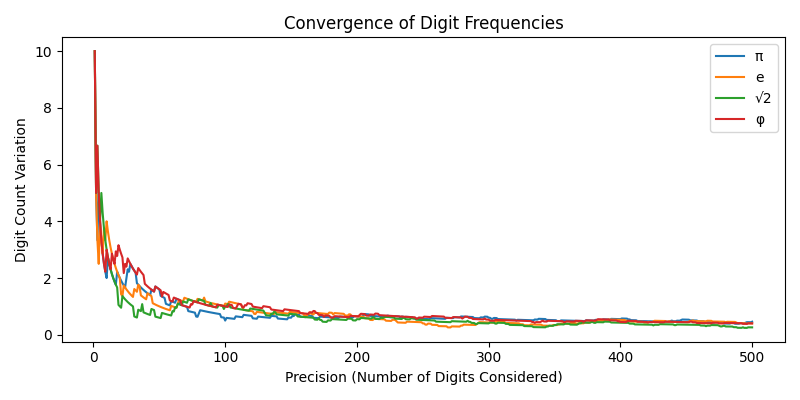
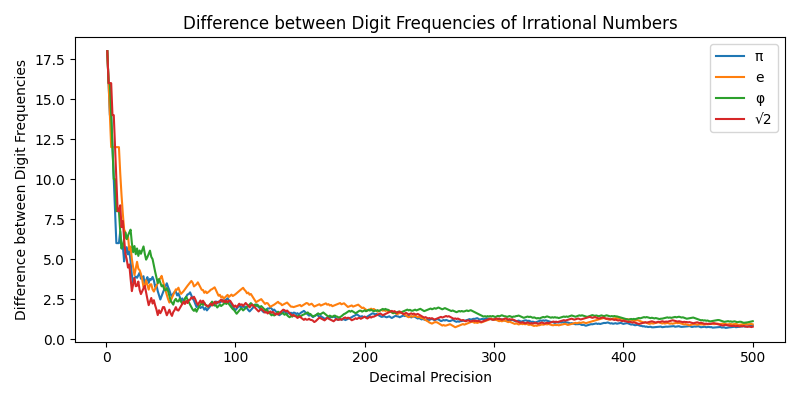
update readme

diff --git a/irrationals.py b/irrationals.py
@@ -3,26 +3,25 @@ import matplotlib.pyplot as plt
 
 precision = np.arange(500) + 1
 digits = np.arange(10)
-constants = {"π": np.pi, "e": np.e, "√2": np.sqrt(2), "φ": (1 + np.sqrt(5)) / 2}
+irrational_numbers = ["π", "e", "φ", "√2"]
 
 plt.figure(figsize=(8, 4))
 
-for const_name, const_value in constants.items():
-    with open(f"constants/{const_name}.txt", "r") as file:
-        const_digits = file.read().strip()
+for number in irrational_numbers:
+    with open(f"constants/{number}.txt", "r") as file:
+        decimals = file.read().strip()
 
     differences = []
     for p in precision:
-        counts = [const_digits[:p].count(str(digit)) for digit in digits]
-        avg = np.average(counts)
-        diff = np.sum(np.abs(counts - avg)) / (p / 10)
+        counts = [decimals[:p].count(str(digit)) for digit in digits]
+        diff = np.sum(np.abs(counts - np.average(counts))) / (p / 10)
         differences.append(diff)
 
-    plt.plot(precision, differences, label=const_name)
+    plt.plot(precision, differences, label=number)
 
-plt.xlabel("Precision (Number of Digits Considered)")
-plt.ylabel("Digit Count Variation")
-plt.title("Convergence of Digit Frequencies")
+plt.xlabel("Decimal Precision")
+plt.ylabel("Difference between Digit Frequencies")
+plt.title("Difference between Digit Frequencies of Irrational Numbers")
 plt.legend()
 plt.tight_layout()
 plt.show()
@@ -31,6 +30,6 @@ plt.show()
 plt.bar(digits, counts)
 plt.xlabel("Digit")
 plt.xticks(digits)
-plt.ylabel("Count")
-plt.title(f"Digit Frequencies of {const_name}")
+plt.ylabel("Frequency")
+plt.title(f"Digit Frequencies of {irrational_number}")
 plt.show()

diff --git a/birthday.py b/birthday.py
@@ -1,0 +1,16 @@
+import numpy as np
+import matplotlib.pyplot as plt
+
+irrationals = ["π", "e", "φ", "√2"]
+
+birthday = input("Enter your birthday in DDMM format: ")
+print(f"Searching for {birthday}...")
+
+for num in irrationals:
+    with open(f"constants/{num}.txt", "r") as file:
+        decimals = file.read().strip()
+
+    if birthday in decimals:
+        print(f"Found after {decimals.index(birthday)} digits of {num}")
+    else:
+        print(f"Not found in the first {len(decimals)} digits of {num}")

diff --git a/naturals.py b/naturals.py
@@ -6,7 +6,7 @@ angles = np.linspace(0, 2 * np.pi, N, endpoint=False)
 radii = np.arange(1, N + 1)
 
 ax = plt.subplot(111, polar=True)
-ax.set_title("Natural numbers in polar coordinates")
+ax.set_title("Natural Numbers in Polar Coordinates")
 
 for angle, radius in zip(angles, radii):
     color = plt.cm.viridis(radius / N)

diff --git a/mcd.py b/mcd.py
@@ -1,0 +1,12 @@
+a = int(input("Enter a:"))
+b = int(input("Enter b:"))
+
+
+def mcd(a, b):
+    if b == 0:
+        return a
+    else:
+        return mcd(b, a % b)
+
+
+print(mcd(a, b))

diff --git a/README.md b/README.md
@@ -1,6 +1,6 @@
 # Math Lab
-### Mathematical Functions and Visualizations in Python
-Welcome to Math Lab! I hope you enjoy this collection of mathematical functions and visualizations. I will be adding more functions and visualizations in the future. If you have any suggestions, please let me know.
+### Mathematical Explorations in Python: Visualizing Fractals, Complex Roots, and Irrational Numbers
+I hope you enjoy this as much as I did.
 
 $$e^{i \pi} + 1 = 0$$
 
@@ -39,7 +39,7 @@ for k in range(n):
 [Click here to see the complete code](complex_roots.py)
 
 ### Mandelbrot Set
-The [Mandelbrot set](https://en.wikipedia.org/wiki/Mandelbrot_set) emerges from iteratively evaluating the equation $z_{n+1} = z_n^2 + c$ where $z$ is a complex number and $c$ is a constant. This operation is performed over and over again for each point in the complex plane. If the values of $z$ stay bounded during these iterations, the point is considered part of the Mandelbrot set; if they diverge, it's not.
+The [Mandelbrot set](https://en.wikipedia.org/wiki/Mandelbrot_set) emerges from the iterative evaluation of the equation $z_{n+1} = z_n^2 + c$ where $z$ is a complex number and $c$ is a constant. This operation is performed for each point in the complex plane. If the values of $z$ stay bounded during these iterations, the point is considered part of the set; if they diverge, it's not.
 
 <img src="images/mandel.png" width=50% height=50%>
 
@@ -55,7 +55,7 @@ def mandelbrot(c, max_iterations):
 [Complete code](fractals.py)
 
 ### Julia Set
-The [Julia set](https://en.wikipedia.org/wiki/Julia_set) is similar to the Mandelbrot set, but instead of iterating over the complex plane, it iterates over a single point $c$ while the other point $z$ is fixed. The Julia set is the set of points $c$ for which the sequence $z_{n+1} = z_n^2 + c$ does not diverge.
+The [Julia set](https://en.wikipedia.org/wiki/Julia_set), akin to the Mandelbrot set, arises from iteratively calculating the equation $z_{n+1} = z_n^2 + c$, where $z$ is a complex number and $c$ is a constant. However, in the Julia set, this computation is carried out for a fixed point $c$ while varying the initial complex number $z$. The resulting set is determined by whether the iterative values of $z$ remain bounded or diverge.
 
 <img src="images/julia.png" width=50% height=50%>
 
@@ -71,12 +71,12 @@ def julia(x, y, c, max_iterations):
 [Julia set complete code](fractals.py)
 
 ### Digit Distribution in Irrational Numbers
-Have you ever wondered how the digits of irrational numbers are distributed? Me neither, but when we dive into the realm of infinity, every digit appears to show up an equal number of times!
+Have you ever wondered how the digits of irrational numbers are distributed? Me neither, but apparently each digit appears the same amount of times! The following plots show how the difference between digit frecuencies converges to 0 as the number of decimals increases. This is just an empirical observation, I don't know if it's true for all irrational numbers.
 
 <img src="images/diffs.png" width=50% height=50%>
 <img src="images/pcount.png" width=50% height=50%>
 
-First 1M digits of pi.
+#### First 1 million digits of $\pi$
 
 <img src="images/pi.png">
 
